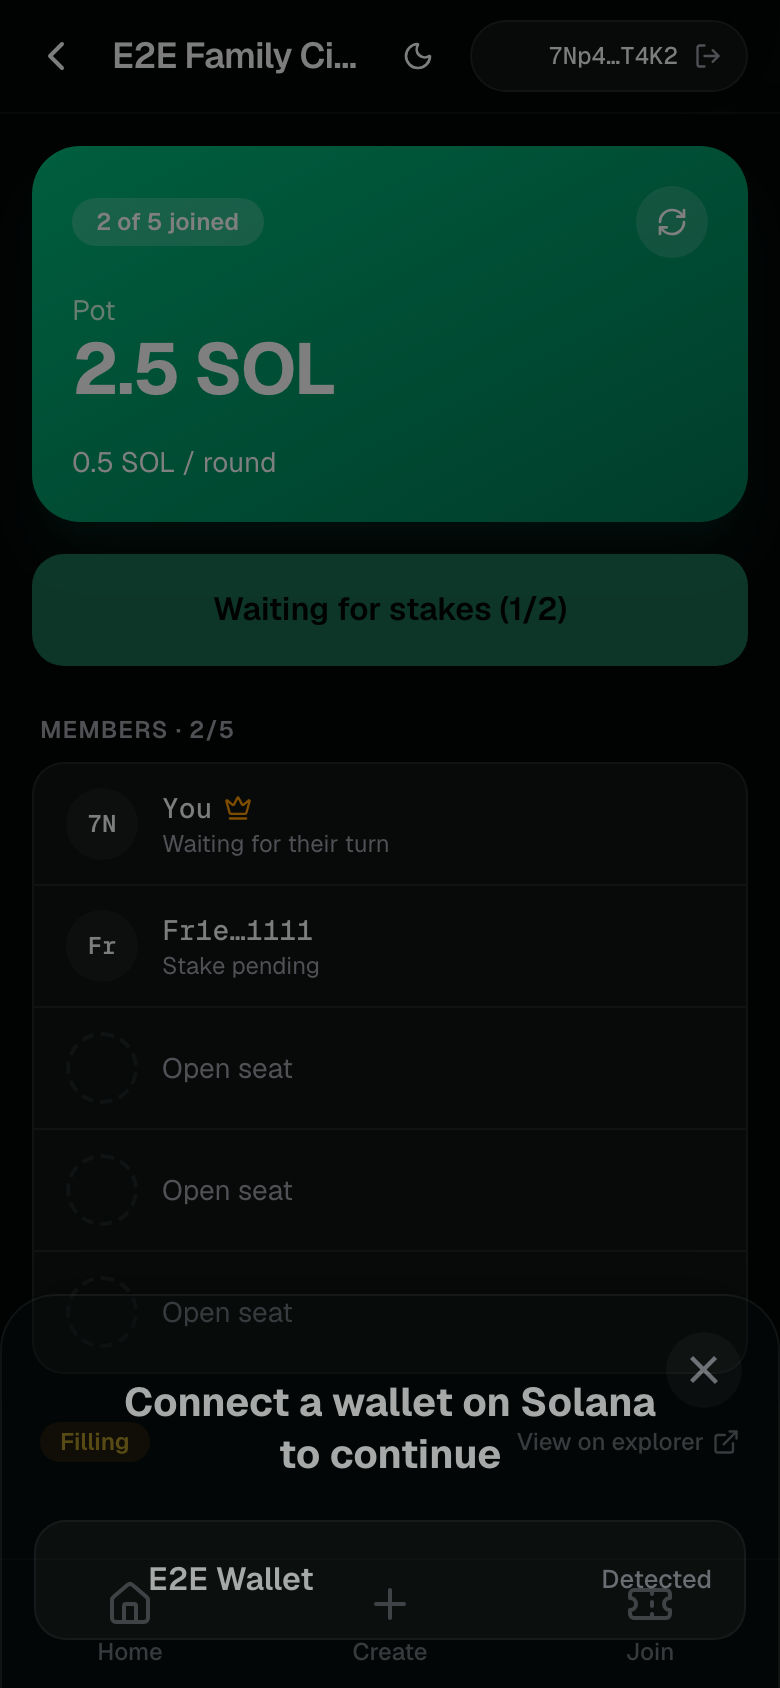
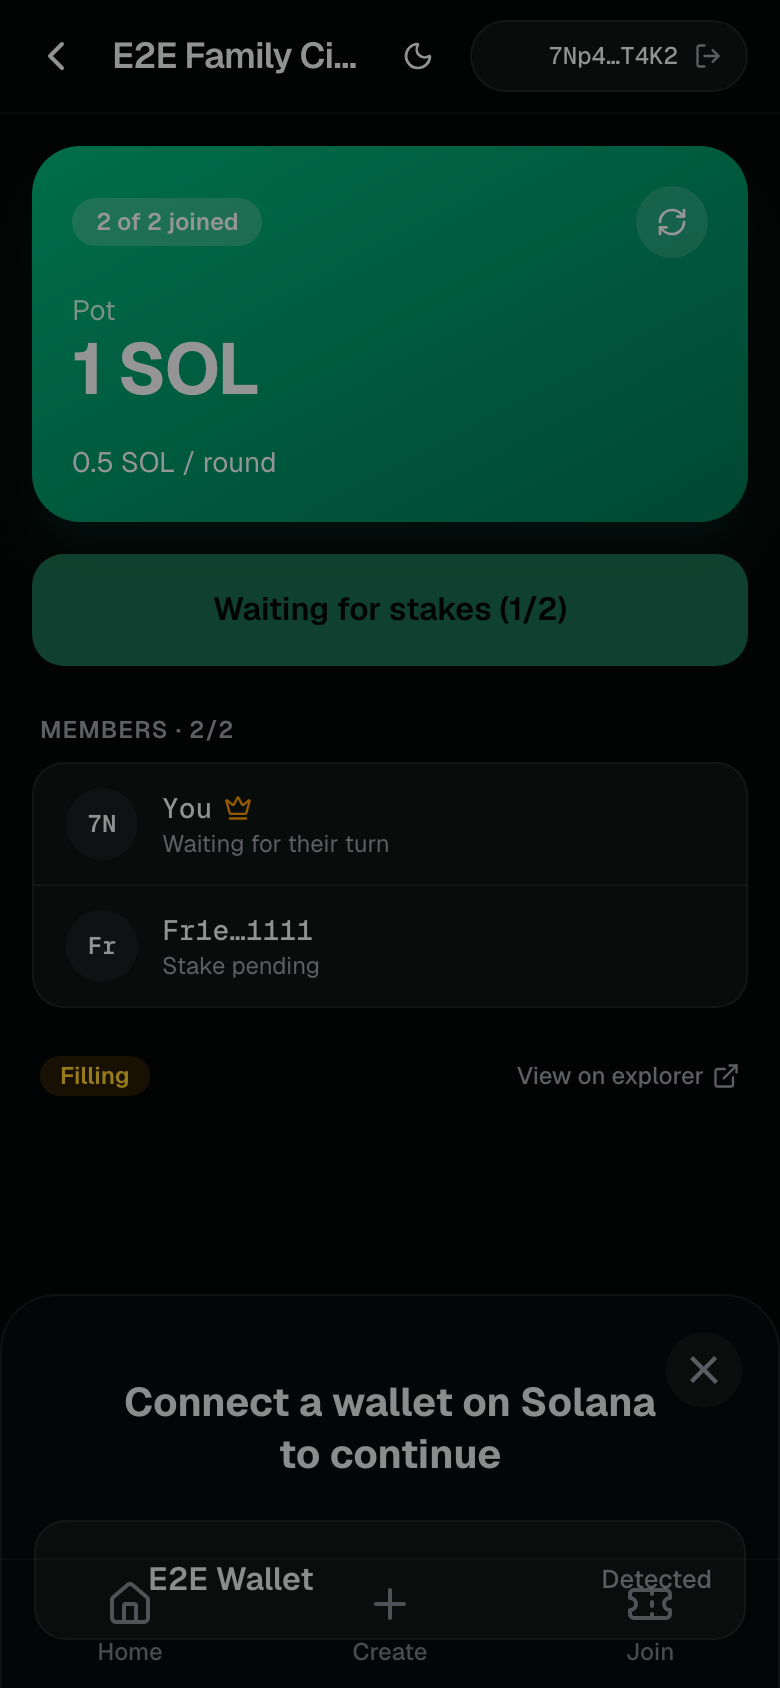
fix: only start full pools (E2E-14); prove P-3 locked stakes (#13)
total_rounds is fixed to max_members, so a pool started below capacity
runs out of eligible winners, never completes, and refunds (which need
Completed) are locked. security_p0 gains an #[ignore]d proof test; the UI
now offers Start only when the pool is full. Program not changed.

diff --git a/src/app/pools/[id]/page.tsx b/src/app/pools/[id]/page.tsx
@@ -197,6 +197,9 @@ export default function PoolPage({ params }: { params: Promise<{ id: string }> }
   // start_pool does not check stakes on-chain; an unstaked member of a started pool can
   // neither stake nor pay. Only offer Start once everyone has staked.
   const staked = stakePool ? members.filter((m) => m.stakeDeposited).length : members.length;
+  // total_rounds is fixed to max_members on-chain; a pool started below capacity runs
+  // out of eligible winners and never completes, locking stakes (issue #13).
+  const full = members.length >= pool.maxMembers;
 
   let primary: React.ReactNode = null;
   if (!connected) {
@@ -225,14 +228,14 @@ export default function PoolPage({ params }: { params: Promise<{ id: string }> }
     );
   } else if (isAuthority && pool.status === "pending") {
     primary = (
-      <PrimaryButton onClick={start} disabled={busy || members.length < 2 || staked < members.length}>
-        {members.length < 2
-          ? "Waiting for members"
+      <PrimaryButton onClick={start} disabled={busy || !full || staked < members.length}>
+        {!full
+          ? `Waiting for members (${members.length}/${pool.maxMembers})`
           : staked < members.length
             ? `Waiting for stakes (${staked}/${members.length})`
             : busy
               ? "Confirm in wallet…"
-              : `Start with ${members.length} members`}
+              : "Start pool"}
       </PrimaryButton>
     );
   } else if (myMember?.isKicked) {

diff --git a/e2e/pool-actions.spec.ts b/e2e/pool-actions.spec.ts
@@ -51,6 +51,7 @@ test.describe("Pending pool", () => {
   test("the authority cannot start until every member has staked (E2E-10)", async ({ page }) => {
     await openPool(page, {
       authority: me,
+      maxMembers: 2,
       members: [{ wallet: me, stakeDeposited: true }, { wallet: other }],
     });
     const btn = main(page).getByRole("button", { name: "Waiting for stakes (1/2)" });
@@ -58,12 +59,23 @@ test.describe("Pending pool", () => {
     await proof(page, "p-waiting-for-stakes");
   });
 
-  test("the authority starts once everyone has staked", async ({ page }) => {
+  test("the authority cannot start below capacity (E2E-14, #13)", async ({ page }) => {
     await openPool(page, {
       authority: me,
+      maxMembers: 3,
       members: [{ wallet: me, stakeDeposited: true }, { wallet: other, stakeDeposited: true }],
     });
-    await expectSigned(page, "Start with 2 members", /^start_?[pP]ool$/);
+    await expect(main(page).getByRole("button", { name: "Waiting for members (2/3)" })).toBeDisabled();
+    await expect(main(page).getByRole("button", { name: "Start pool" })).toHaveCount(0);
+  });
+
+  test("the authority starts a full pool once everyone has staked", async ({ page }) => {
+    await openPool(page, {
+      authority: me,
+      maxMembers: 2,
+      members: [{ wallet: me, stakeDeposited: true }, { wallet: other, stakeDeposited: true }],
+    });
+    await expectSigned(page, "Start pool", /^start_?[pP]ool$/);
   });
 });
 

diff --git a/e2e/helpers.ts b/e2e/helpers.ts
@@ -101,6 +101,7 @@ export interface MockMember {
 
 export interface MockScenario {
   authority?: PublicKey;
+  maxMembers?: number;
   status?: "Pending" | "Active";
   currentRound?: number;
   members?: MockMember[];
@@ -124,11 +125,11 @@ async function encodeMockPool(scenario: MockScenario): Promise<Buffer> {
   return coder.encode("Pool", {
     authority: scenario.authority ?? MOCK_POOL.authority,
     name: [...name],
-    max_members: MOCK_POOL.maxMembers,
+    max_members: scenario.maxMembers ?? MOCK_POOL.maxMembers,
     member_count: members.length,
     contribution_amount: new BN(MOCK_POOL.lamportsPerRound),
     currency: { Sol: {} },
-    total_rounds: MOCK_POOL.maxMembers,
+    total_rounds: scenario.maxMembers ?? MOCK_POOL.maxMembers,
     current_round: active ? (scenario.currentRound ?? 1) : 0,
     status: { [scenario.status ?? "Pending"]: {} },
     next_draw_timestamp: new BN(active ? Math.floor(Date.now() / 1000) + 3 * 86_400 : 0),

diff --git a/arisan_contracts/programs/arisan_contracts/tests/security_p0.rs b/arisan_contracts/programs/arisan_contracts/tests/security_p0.rs
@@ -739,3 +739,78 @@ async fn outsider_cannot_derive_invite_code_from_pool_account() {
         fixture.invite
     );
 }
+
+/// Pay the round for every wallet, commit randomness, and execute the draw for the
+/// derived winner. Returns the winner.
+async fn play_round(
+    context: &mut ProgramTestContext,
+    fixture: &PoolFixture,
+    players: &[&Keypair],
+    round: u8,
+) -> Pubkey {
+    for player in players {
+        pay(context, fixture, player, round).await;
+    }
+    let clock: Clock = context.banks_client.get_sysvar().await.unwrap();
+    context.warp_to_slot(clock.slot + 5).unwrap();
+    let committed_slot = commit(context, fixture).await;
+    context.warp_to_slot(committed_slot + 3).unwrap();
+
+    let slot_hash_account = account_data(context, slot_hashes::id()).await;
+    let hash = read_slot_hash(&slot_hash_account, committed_slot).unwrap();
+    let mut eligible = Vec::new();
+    for player in players {
+        let member = load_member(
+            &account_data(context, pda(&[b"member", fixture.pool.as_ref(), player.pubkey().as_ref()])).await,
+        );
+        if !member.has_won {
+            eligible.push(player.pubkey());
+        }
+    }
+    let winner = select_winner(&hash, &mut eligible).expect("an eligible member remains");
+    let member_pdas: Vec<Pubkey> = players
+        .iter()
+        .map(|p| pda(&[b"member", fixture.pool.as_ref(), p.pubkey().as_ref()]))
+        .collect();
+    let ix = execute_ix(fixture, context.payer.pubkey(), winner, round, &member_pdas);
+    assert_ok(&send(context, &[ix], &[]).await, "execute_draw");
+    winner
+}
+
+/// P-3 (issue filed): `total_rounds` is fixed to `max_members` at create, and
+/// `start_pool` accepts fewer members. With 2 of 3 seats filled, everyone has won after
+/// round 2, the pool can never reach Completed, and stake refunds (which require
+/// Completed) are locked forever.
+#[tokio::test]
+#[ignore = "P-3: pool started below capacity never completes; stakes locked (see docs/e2e-proof)"]
+async fn pool_started_below_capacity_completes_when_everyone_has_won() {
+    let member2 = Keypair::new();
+    let mut test = program_test();
+    test.add_account(
+        member2.pubkey(),
+        Account::new(2_000_000_000, 0, &system_program::id()),
+    );
+    let mut context = test.start_with_context().await;
+    let payer = context.payer.insecure_clone();
+
+    let fixture = create_pool(&mut context, 3, true).await; // 3 seats
+    join(&mut context, &fixture, &payer).await;
+    join(&mut context, &fixture, &member2).await; // only 2 join
+    deposit_stake(&mut context, &fixture, &payer).await;
+    deposit_stake(&mut context, &fixture, &member2).await;
+    start_pool(&mut context, &fixture).await;
+
+    let first = play_round(&mut context, &fixture, &[&payer, &member2], 1).await;
+    let second = play_round(&mut context, &fixture, &[&payer, &member2], 2).await;
+    assert_ne!(first, second, "each member wins exactly once");
+
+    let pool = load_pool(&account_data(&mut context, fixture.pool).await);
+    assert!(
+        pool.status == PoolStatus::Completed,
+        "both members have won but the pool is still {:?} at round {}/{}; claim_stake_refund requires Completed, so {} lamports of stakes are locked",
+        if pool.status == PoolStatus::Active { "Active" } else { "not Completed" },
+        pool.current_round,
+        pool.total_rounds,
+        CONTRIB * 2
+    );
+}

diff --git a/docs/e2e-proof/README.md b/docs/e2e-proof/README.md
@@ -4,8 +4,8 @@ Full run: [`test-e2e.log`](test-e2e.log) (`npm run test:e2e`, exit 0).
 Screenshots: [`ui/`](ui/), mobile 390×844, dark colour scheme, Chromium.
 
 ```bash
-npm run test:security   # Anchor: cargo test -p arisan_contracts --test security_p0 (4 tests + 1 ignored P-2 proof)
-npm run test:e2e:ui     # Playwright UI + API + header against `next build && next start` (58 tests)
+npm run test:security   # Anchor: cargo test -p arisan_contracts --test security_p0 (4 tests + 2 ignored proofs: P-2, P-3)
+npm run test:e2e:ui     # Playwright UI + API + header against `next build && next start` (59 tests)
 npm run test:e2e        # both
 ```
 
@@ -90,6 +90,8 @@ Each fix has a regression test.
 
 | E2E-13 | After Create, the app read the transaction back once, after a fixed 2 s wait. RPCs often haven't indexed a just-confirmed transaction yet. The creator then got "could not be read back", and since only the hash is on-chain, the pool's invite code was lost for good. | The readback polls for up to about 15 s. | create-success › "shown once" (not indexed until the 4th lookup), "invents nothing" |
 
+| E2E-14 | The authority could start a pool below capacity ("Start with 2 members" in a 3-seat pool). On-chain, that pool can never complete, so every stake is locked (#13). | Start is only offered once the pool is full ("Waiting for members (x/y)"). | pool-actions › "cannot start below capacity" |
+
 `e2e/create-success.spec.ts` runs the full Create success path. The mock wallet sends (`signAndSendTransaction`), the fake chain confirms over a mocked RPC WebSocket, and the invite code comes back only through the transaction's return data. The test checks that the code is shown once and copies, and that "Open pool" goes to the derived pool PDA.
 
 `e2e/pool-actions.spec.ts` covers the pool screen's primary action for each member state: visitor, unstaked member, authority waiting or ready to start, pay, paid, grace, unstaked-after-start, and removed. It runs against a fake chain of Pool, Member and Payment accounts at their real PDAs, and asserts which instruction each button asks the wallet to sign.
@@ -102,6 +104,7 @@ The header's Back button used `history.length`, which counts pages from other si
 
 - **[#11](https://github.com/hamzadiaz/arisan/issues/11) P-2, high: the invite code is derivable from public pool state.** `generate_invite_code(authority, unix_timestamp)` uses only `pool.authority` and `pool.created_at`, so anyone can compute any pool's code and join. Proof: `security_p0` › `outsider_cannot_derive_invite_code_from_pool_account`, `#[ignore]`d so the gate stays green; `cargo test … -- --ignored` shows the outsider joining. Fixing it needs a program change and an owner decision.
 
+- **[#13](https://github.com/hamzadiaz/arisan/issues/13) P-3, high: a pool started below capacity never completes, and its stakes are locked.** `total_rounds = max_members` is fixed at create, and `start_pool` accepts fewer members. After everyone has won, there's no eligible winner, the pool stays Active, and refunds require Completed. Proof: `security_p0` › `pool_started_below_capacity_completes_when_everyone_has_won` (`#[ignore]`d). The UI mitigates it (E2E-14).
 - [#8](https://github.com/hamzadiaz/arisan/issues/8) `start_pool` does not require stakes, which strands unstaked members. The UI mitigates it (E2E-10); the program fix is open.
 
 ## Remaining gaps (not faked)
